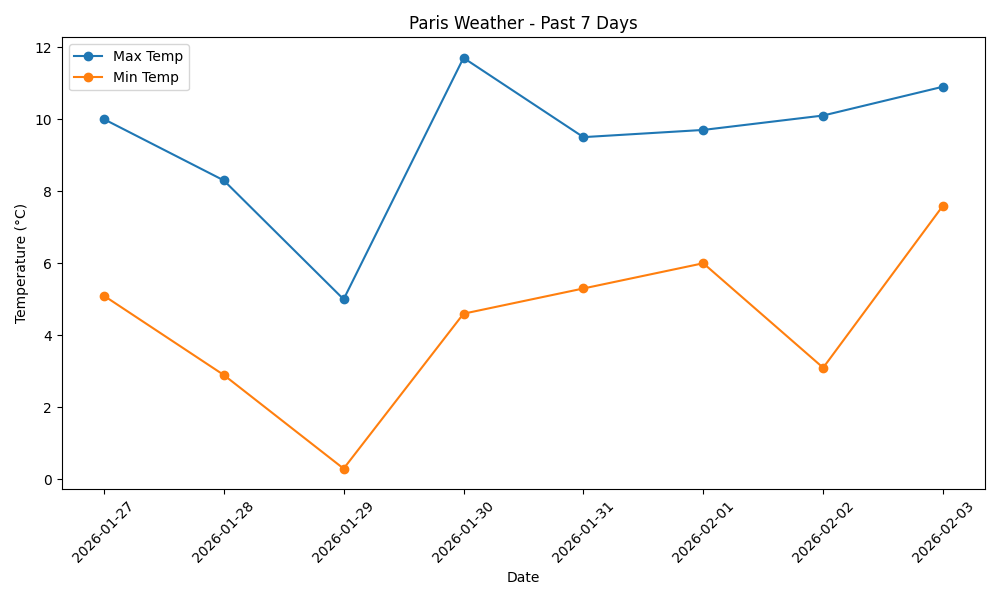
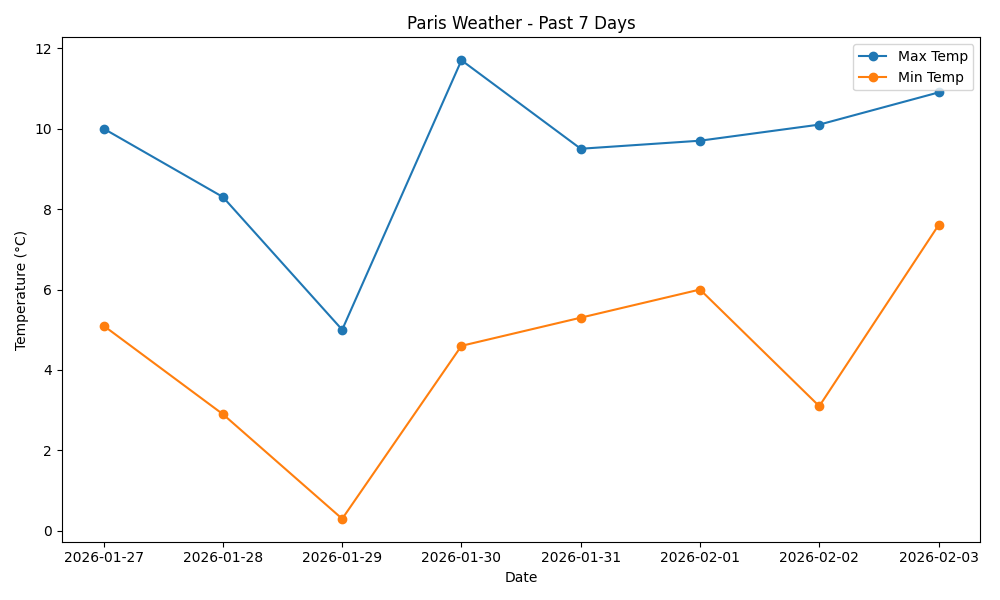
learning operation system

diff --git a/hello.py b/hello.py
@@ -2,6 +2,7 @@ import requests
 import pandas as pd
 import matplotlib.pyplot as plt
 from datetime import datetime, timedelta
+import os
 
 # Calculate dates
 today = datetime.now()
@@ -41,9 +42,12 @@ plt.title('Paris Weather - Past 7 Days')
 plt.legend()
 
 # Rotate x-axis labels for readability
-plt.xticks(rotation=45)
+plt.xticks(rotation=0)
 plt.tight_layout()
 
 # Save the plot
 plt.savefig('weather_chart.png')
 plt.show()
+
+if not os.path.exists('data'):
+    os.makedirs('data')
